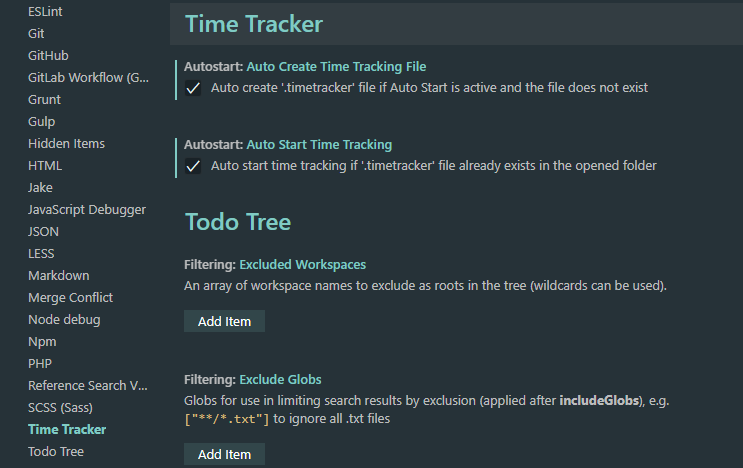
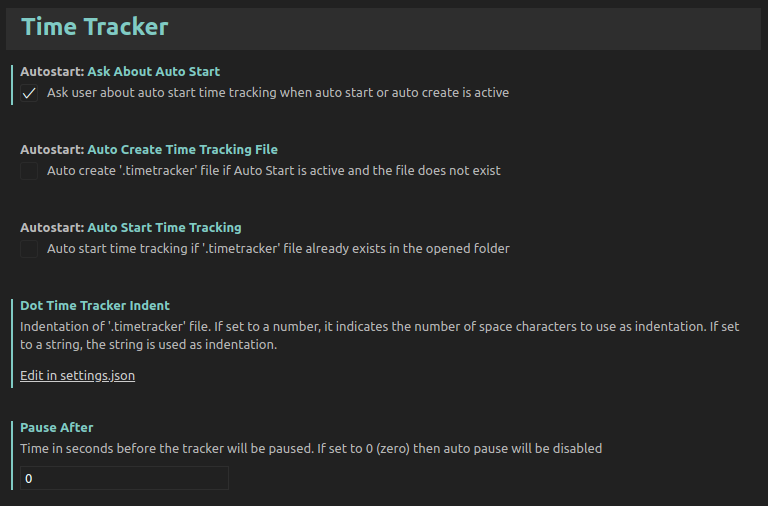
Parameter for auto pausing

diff --git a/src/tracker/TimeTracker.ts b/src/tracker/TimeTracker.ts
@@ -7,7 +7,13 @@ import { TTimeTrackerAction } from './Types';
 
 export class TimeTracker {
     public readonly dataFileName = '.timetracker';
-    private readonly maxIdleTimeBeforeCloseSession: number = 120;
+    private _maxIdleTimeBeforeCloseSession: number = 120;
+    set maxIdleTimeBeforeCloseSession(value: number) {
+        this._maxIdleTimeBeforeCloseSession = value;
+    }
+    get maxIdleTimeBeforeCloseSession() {
+        return this._maxIdleTimeBeforeCloseSession;
+    }
 
     private _state: TimeTrackerState;
     get state(): TimeTrackerState {
@@ -52,8 +58,10 @@ export class TimeTracker {
             if (this._onActiveStateTick) {
                 this._onActiveStateTick(this);
             }
-            this._idleTime++;
-            if (this.idleTime > this.maxIdleTimeBeforeCloseSession) {
+            if (this._maxIdleTimeBeforeCloseSession > 0) {
+                this._idleTime++;
+            }
+            if (this.idleTime > this._maxIdleTimeBeforeCloseSession) {
                 this.pause();
             }
         }, 1000);

diff --git a/src/extension.ts b/src/extension.ts
@@ -67,15 +67,14 @@ export function activate(context: vscode.ExtensionContext) {
 
 	const config = vscode.workspace.getConfiguration('timetracker');
 
-//	if
-
 	const autoStartTimeTracking = config.autostart.autoStartTimeTracking;
 	const autoCreateTimeTrackingFile = config.autostart.autoCreateTimeTrackingFile;
 	const askAboutStart = config.autostart.askAboutAutoStart;
+	const pauseAfter = config.pauseAfter;
+
+	tracker.maxIdleTimeBeforeCloseSession = pauseAfter;
 
 	const rootFolder = vscode.workspace.rootPath;
-
-	//vscode.window.showWarningMessage(rootFolder + ' ' + autoStartTimeTracking + ' ' + autoStartTimeTracking);
 
 	if (autoStartTimeTracking) {
 		if (autoCreateTimeTrackingFile) {

diff --git a/README.md b/README.md
@@ -29,6 +29,8 @@ At the moment the configuration provides options described below:
 * `timetracker.autostart.autoStartTimeTracking` - Automatically start time tracking when the project (folder) is opened and `.timetracking` file already exists in the project's folder
 * `timetracker.autostart.autoCreateTimeTrackingFile` - Automatically start time tracking and create `.timetracking` file if it does not exist yet
 * `timetracker.autostart.askAboutAutoStart` - Ask user before automatically start time tracking
+* `timetracker.pauseAfter` - Time in seconds before the tracker will be paused. If set to 0 (zero) then auto pause will be disabled
+* `timetracker.dotTimeTrackerIndent` - Indentation of '.timetracker' file. If set to a number, it indicates the number of space characters to use as indentation. If set to a string, the string is used as indentation
 
 Also you can setup these options via `File` -> `Preferences` -> `Settings`
 
